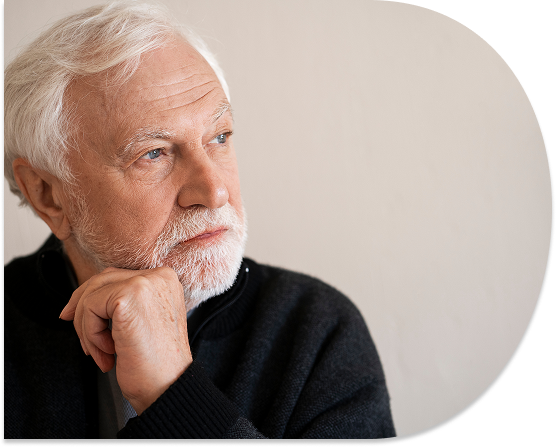
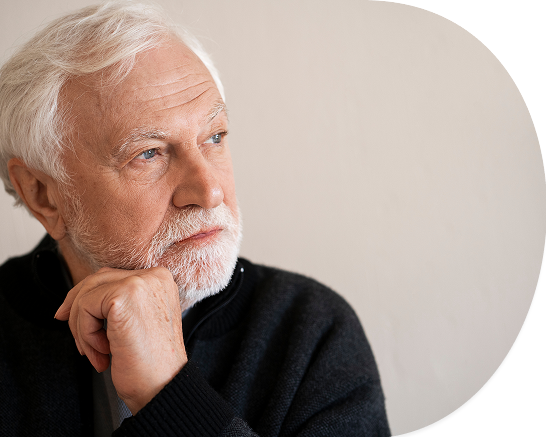
changes

diff --git a/index.html b/index.html
@@ -78,23 +78,23 @@
 
         <!-- Memorial -->
         <section class="memorial">
-            <div class="img-container">
+            <div class="container">
                 <img src="./assets/old-man.png" alt="Old Man Photo">
-            </div>
-
-            <div class="info">
-                <h2>Mel <span>Bochner's</span></h2>
-                <p>
-                    I would like to note Mel Bochners passing on February 12, 2025.
-                    He was a valued colleague, a brilliant interlocutor, never brought
-                    less than his A game to studio visits and reviews, he had a voice
-                    that brought insight to the conversation, and had an outstanding
-                    sense of humor. I was fortunate to be his colleague. Students felt
-                    fortunate for the exchange they shared. He never varnished his
-                    truth. May he rest in peace.
-                    —Rochelle Feinstein, Emerita Professor, School of Art,
-                    1994-2017
-                </p>
+    
+                <article class="info">
+                    <h2>Mel <br> Bochner's</h2>
+                    <p>
+                        I would like to note Mel Bochners passing on February 12, 2025.
+                        He was a valued colleague, a brilliant interlocutor, never brought
+                        less than his A game to studio visits and reviews, he had a voice
+                        that brought insight to the conversation, and had an outstanding
+                        sense of humor. I was fortunate to be his colleague. Students felt
+                        fortunate for the exchange they shared. He never varnished his
+                        truth. May he rest in peace.
+                        —Rochelle Feinstein, Emerita Professor, School of Art,
+                        1994-2017
+                    </p>
+                </article>
             </div>
         </section>
             

diff --git a/styles/style.css b/styles/style.css
@@ -3,7 +3,7 @@
     --secondary-color: #f0dc1c;
     --title-font-family: 'Times New Roman', Times, serif;
     --text-font-family: "Arial", "sans-serif";
-    --padding-inline-containers: 7em;
+    --padding-inline-containers: 10em;
     --padding-block-containers: 5em;
     --dots-bg: #80a4be;
 }
@@ -14,6 +14,7 @@
     box-sizing: border-box;
     font-family: var(--text-font-family);
     font-size: 18px;
+    text-align: justify;
 }
 
 body {
@@ -22,7 +23,7 @@ body {
 }
 
 section {
-    padding-inline: var(--padding-inline-containers);
+    padding: var(--padding-block-containers) var(--padding-inline-containers);
     width: 100%;
 }
 
@@ -113,6 +114,7 @@ header img {
     display: flex;
     flex-direction: column;
     justify-content: space-evenly;
+    box-shadow: 1px 1px 10px #000;
 }
 
 .card h3 {
@@ -138,7 +140,26 @@ header img {
 }
 
 .memorial {
-    position: relative;
+    height: 50vh;
+}
+
+.memorial .container {
+    height: 100%;
     display: flex;
-    background-color: #a39e9e;
+    background-color: var(--primary-color);
+    border-radius: 1em;
+    justify-content: center;
+    align-items: center;
+    color: #d9d9d9;
+}
+
+.memorial .container .info {
+    display: flex;
+    flex-direction: column;
+    gap: 1.5em;
+    padding-inline: 3em;
+}
+
+.info h2, .info h2 span {
+    font-size: 2.5em;
 }
